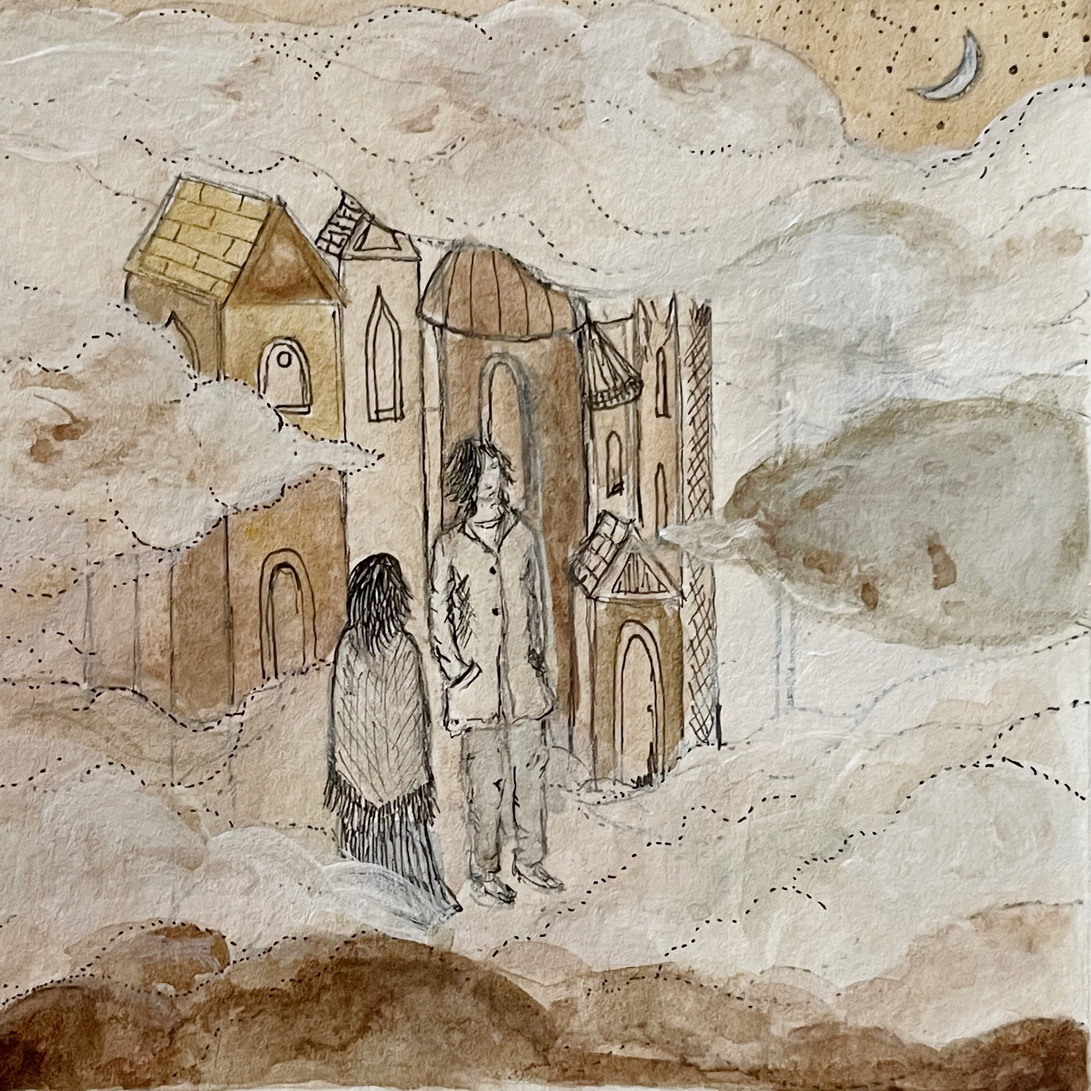
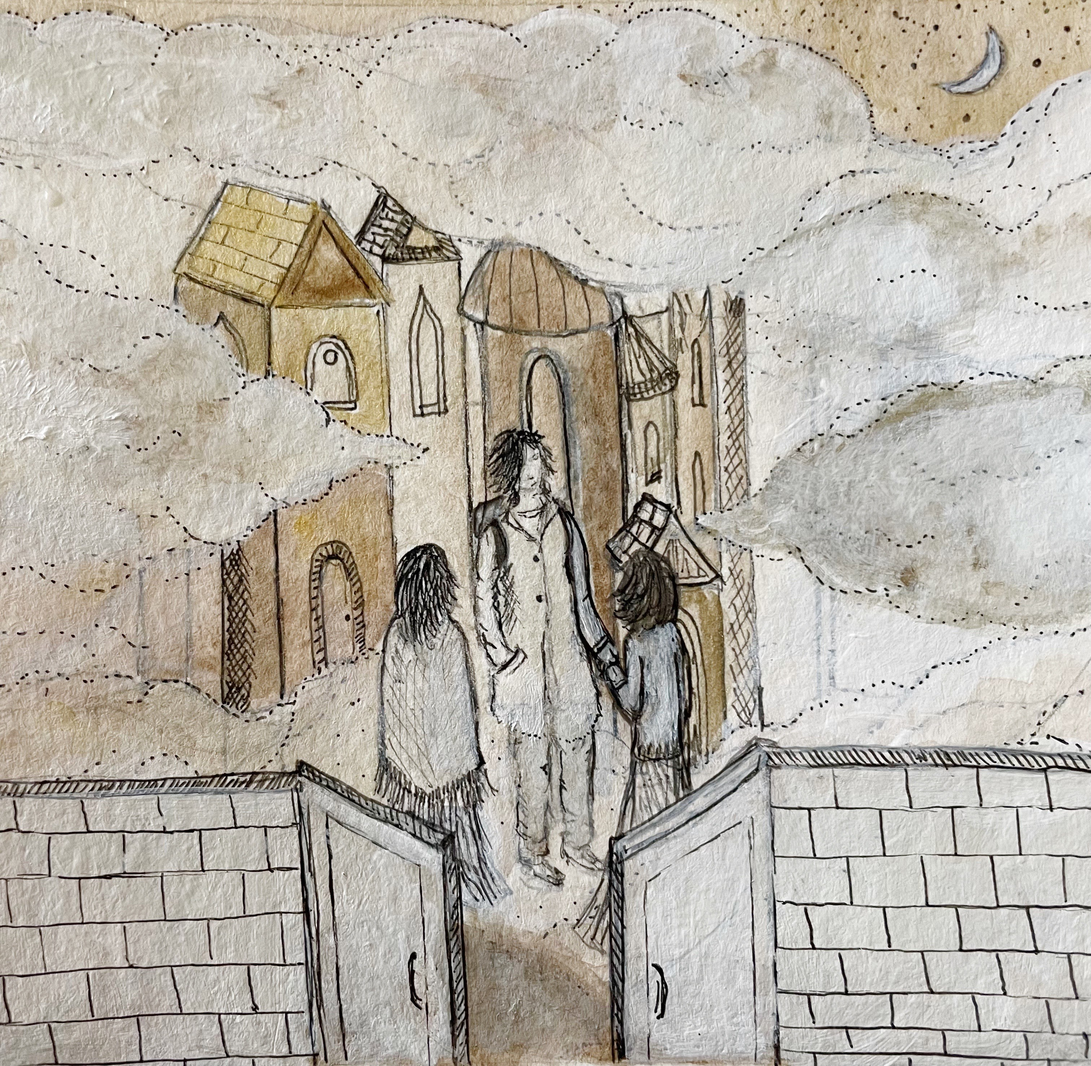
Adventure scene shows a scrolling stillframe after the tutorial is completed

diff --git a/src/scene/adventureScene.ts b/src/scene/adventureScene.ts
@@ -1,6 +1,6 @@
 import "phaser"
 import BaseScene from './baseScene'
-import { Style, Space, Color, UserSettings, Time, BBStyle } from '../settings/settings'
+import { Style, Space, Color, UserSettings, Time, BBStyle, Ease } from '../settings/settings'
 import Buttons from "../lib/buttons/buttons"
 import Icons from "../lib/buttons/icons"
 import Menu from "../lib/menu"
@@ -29,16 +29,10 @@ export default class AdventureScene extends BaseScene {
 	create(params): void {
 		super.create()
 
-		params.stillframe = 4
-
 		this.params = params
 
-		if (params.stillframe !== undefined) {
-			this.createStillframe(params)
-		}
-
 		// Create the background
-		let background = this.add.image(0, 0, 'bg-Map')
+		this.add.image(0, 0, 'bg-Map')
 			.setOrigin(0)
 			.setInteractive()
 
@@ -48,8 +42,13 @@ export default class AdventureScene extends BaseScene {
 		// Add all of the available nodes
 		this.addAdventureData()
 
-		// Add scroll functionality
-		this.enableScrolling(background)
+		if (params.stillframe !== undefined) {
+			this.createStillframe(params)
+		}
+		else {
+			// Add scroll functionality by default if not showing a stillframe
+			this.enableScrolling()
+		}
 
 		// Make up pop-up for the card you just received, if there is one
 		if (params.card) {
@@ -236,7 +235,63 @@ export default class AdventureScene extends BaseScene {
 
 	// Create a stillframe animation specified in params
 	private createStillframe(params): void {
-		// TODO
+		// TODO Make dry with the searching tutorial class implementation
+
+		let container = this.add.container().setDepth(11)
+
+		let img = this.add.image(Space.windowWidth/2, 0, `bg-Story 4`)
+		.setOrigin(0.5, 0)
+		.setInteractive()
+		.setDepth(12)
+
+		// Ensure that image fits perfectly in window
+		const scale = Space.windowWidth / img.displayWidth
+		img.setScale(scale)
+
+		// Add text
+		let txt = this.add.text(0, 0, '', Style.stillframe)
+
+		const s = "Impressive, all that life, all that wonder. You are welcomed in of course. But if I might share one thing that I've learned in my time here It's that someday, everything blows away."
+		this.rexUI.add.textBox({
+			text: txt,
+			x: Space.windowWidth/2,
+			y: Space.pad,
+			width: 1000,
+		})
+		.start(s, 50)
+		.setOrigin(0.5, 0)
+
+		container.add([img, txt])
+
+		// Add an okay button
+		let btn = new Buttons.Basic(
+			container,
+			Space.windowWidth - Space.pad - Space.largeButtonWidth/2,
+			Space.windowHeight - Space.pad - Space.largeButtonHeight/2,
+			'Continue',
+			() => {
+				container.setVisible(false)
+
+				// Allow scrolling once the stillframe is gone
+				this.enableScrolling()
+			})
+		.disable()
+
+		// Scroll the image going down
+		this.add.tween({
+			targets: img,
+			duration: 6000,
+			ease: Ease.stillframe,
+			y: Space.windowHeight - img.displayHeight,
+			onStart: () => {
+				img.y = 0
+			},
+			onComplete: () => {
+				btn.enable()
+			}
+		})
+
+		// Set the param to undefined so it doesn't persist
 		params.stillframe = undefined
 	}
 
@@ -325,7 +380,7 @@ export default class AdventureScene extends BaseScene {
 		// }
 	}
 
-	private enableScrolling(background: Phaser.GameObjects.GameObject): void {
+	private enableScrolling(): void {
 		let camera = this.cameras.main
 
 		this.input.on('gameobjectwheel', function(pointer, gameObject, dx, dy, dz, event) {
